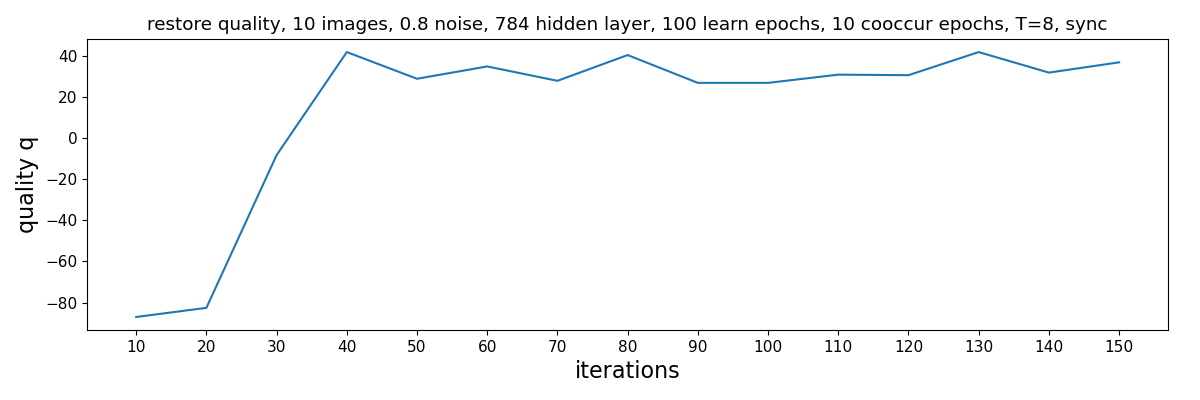
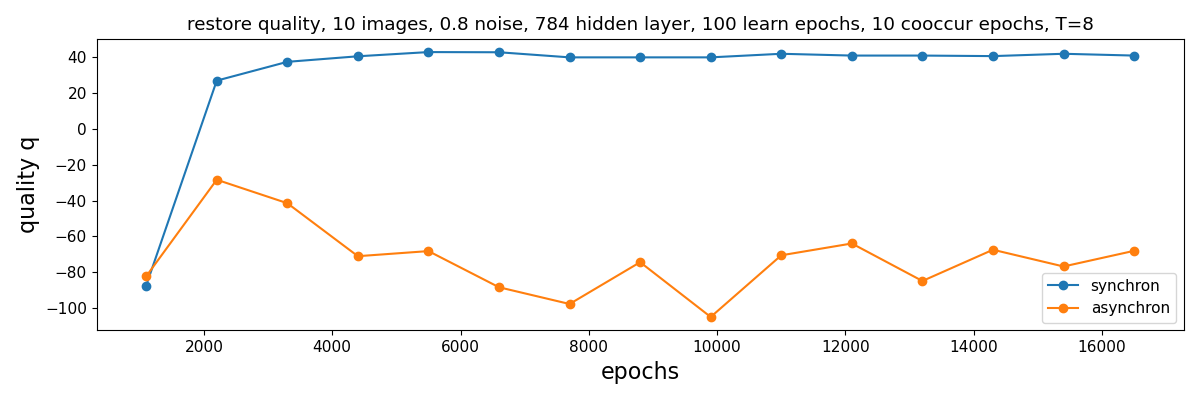
updated epochs and temperature plots

diff --git a/mnist_restore_test.py b/mnist_restore_test.py
@@ -213,7 +213,8 @@ def mnist_restore_test():
 
     # variate temperature
     iterations = 100
-    quality = []
+    quality_sync = []
+    quality_async = []
     temps = np.arange(1, 21, 1)
     for T in temps:
         annealing = [(float(T), 100)]
@@ -222,13 +223,19 @@ def mnist_restore_test():
         # just generate the intermediate plots and keep the final iterations
         for i in iterationslist:
             print(f'T = {T}, iterations = {i}')
-            hidden_layers, q = test_restore345(images, labels, i, num_images, annealing, coocurance, synchron_update, noise_probability, save_path)
-        quality.append(q)
+            hidden_layers, q = test_restore345(images, labels, i, num_images, annealing, coocurance, True, noise_probability, save_path)
+        quality_sync.append(q)
+        for i in iterationslist:
+            print(f'T = {T}, iterations = {i}')
+            hidden_layers, q = test_restore345(images, labels, i, num_images, annealing, coocurance, False, noise_probability, save_path)
+        quality_async.append(q)
     learn_epochs = np.sum(np.array(annealing, dtype=np.int), axis=0)[1]
     cooccur_epochs = coocurance[1]
-    sync_text = 'sync' if synchron_update else 'async'
-    title = f'restore quality, {iterations} iterations, {num_images} images, {noise_probability} noise, {hidden_layers} hidden layer, {learn_epochs} learn epochs, {cooccur_epochs} cooccur epochs, {sync_text}'
-    plt_quality(title, 'temperature T', temps, [quality], save_path, xticks=temps)
+    # sync_text = 'sync' if synchron_update else 'async'
+    title = f'restore quality, {iterations} iterations, {num_images} images, {noise_probability} noise, {hidden_layers} hidden layer, {learn_epochs} learn epochs, {cooccur_epochs} cooccur epochs'
+    plt_quality(title + ', sync', 'temperature T', temps, [quality_sync], save_path, xticks=temps)
+    plt_quality(title + ', async', 'temperature T', temps, [quality_async], save_path, xticks=temps)
+    plt_quality(title, 'temperature T', temps, [quality_sync, quality_async], save_path, xticks=temps, legend=['synchron', 'asynchron'])
 
     # plt.show()
 

diff --git a/oliver/mnist_restore_test.py b/oliver/mnist_restore_test.py
@@ -213,7 +213,8 @@ def mnist_restore_test():
 
     # variate temperature
     iterations = 100
-    quality = []
+    quality_sync = []
+    quality_async = []
     temps = np.arange(1, 21, 1)
     for T in temps:
         annealing = [(float(T), 100)]
@@ -222,13 +223,19 @@ def mnist_restore_test():
         # just generate the intermediate plots and keep the final iterations
         for i in iterationslist:
             print(f'T = {T}, iterations = {i}')
-            hidden_layers, q = test_restore345(images, labels, i, num_images, annealing, coocurance, synchron_update, noise_probability, save_path)
-        quality.append(q)
+            hidden_layers, q = test_restore345(images, labels, i, num_images, annealing, coocurance, True, noise_probability, save_path)
+        quality_sync.append(q)
+        for i in iterationslist:
+            print(f'T = {T}, iterations = {i}')
+            hidden_layers, q = test_restore345(images, labels, i, num_images, annealing, coocurance, False, noise_probability, save_path)
+        quality_async.append(q)
     learn_epochs = np.sum(np.array(annealing, dtype=np.int), axis=0)[1]
     cooccur_epochs = coocurance[1]
-    sync_text = 'sync' if synchron_update else 'async'
-    title = f'restore quality, {iterations} iterations, {num_images} images, {noise_probability} noise, {hidden_layers} hidden layer, {learn_epochs} learn epochs, {cooccur_epochs} cooccur epochs, {sync_text}'
-    plt_quality(title, 'temperature T', temps, [quality], save_path, xticks=temps)
+    # sync_text = 'sync' if synchron_update else 'async'
+    title = f'restore quality, {iterations} iterations, {num_images} images, {noise_probability} noise, {hidden_layers} hidden layer, {learn_epochs} learn epochs, {cooccur_epochs} cooccur epochs'
+    plt_quality(title + ', sync', 'temperature T', temps, [quality_sync], save_path, xticks=temps)
+    plt_quality(title + ', async', 'temperature T', temps, [quality_async], save_path, xticks=temps)
+    plt_quality(title, 'temperature T', temps, [quality_sync, quality_async], save_path, xticks=temps, legend=['synchron', 'asynchron'])
 
     # plt.show()
 

diff --git a/paper/boltzmann_machine_paper.tex b/paper/boltzmann_machine_paper.tex
@@ -596,7 +596,7 @@ Having seen a good result from the experiment with 10 images in \cref{subsec:rec
 	\footnotesize On the same experiment from \cref{subsec:recall}, the learning phase is repeated for every data point on the x-axis. After recalling the pattern, the quality is measured by $q$ and displayed on the y-axis.
 \end{figure}
 
-While all other meta-parameters are kept fixed the same experiment is performed, but with varying total amount of epochs and temperature.
+While all other meta-parameters are kept fixed, the same experiment is performed, but with varying total amount of epochs and temperature.
 To have a scalar to measure the quality $q$, a simple approach using the pixel values $x_\text{sample}(i)$ from the original and $x_\text{restore}(i)$ from the restored pattern at the same coordinate $i$ is applied.
 The left term rewards pixels set in the restored pattern where a pixel was set in the original, and the right, negative, term punishes restored pixels where no original pixel was set:
 $$q = \sum_{i : x_\text{sample}(i) = 1} \frac1{20}\sum_{\text{20 recalls}}x_\text{restore}(i) - \sum_{i : x_\text{sample}(i) = 0} \frac1{20}\sum_{\text{20 recalls}}x_\text{restore}(i)$$
